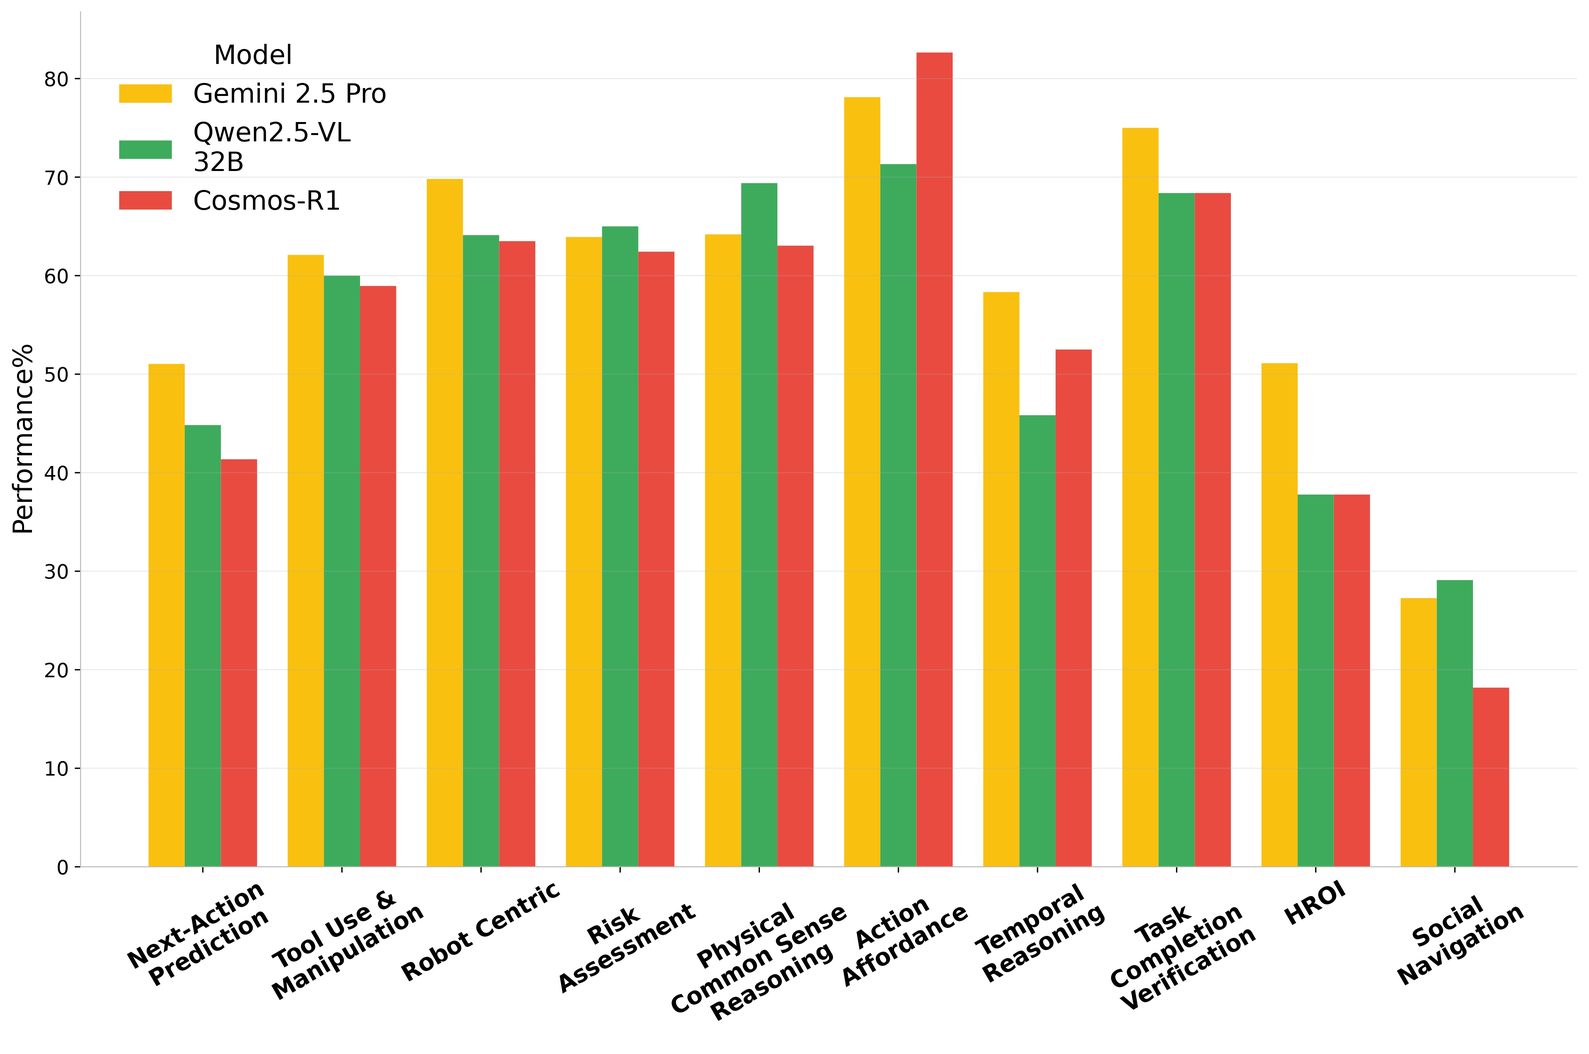
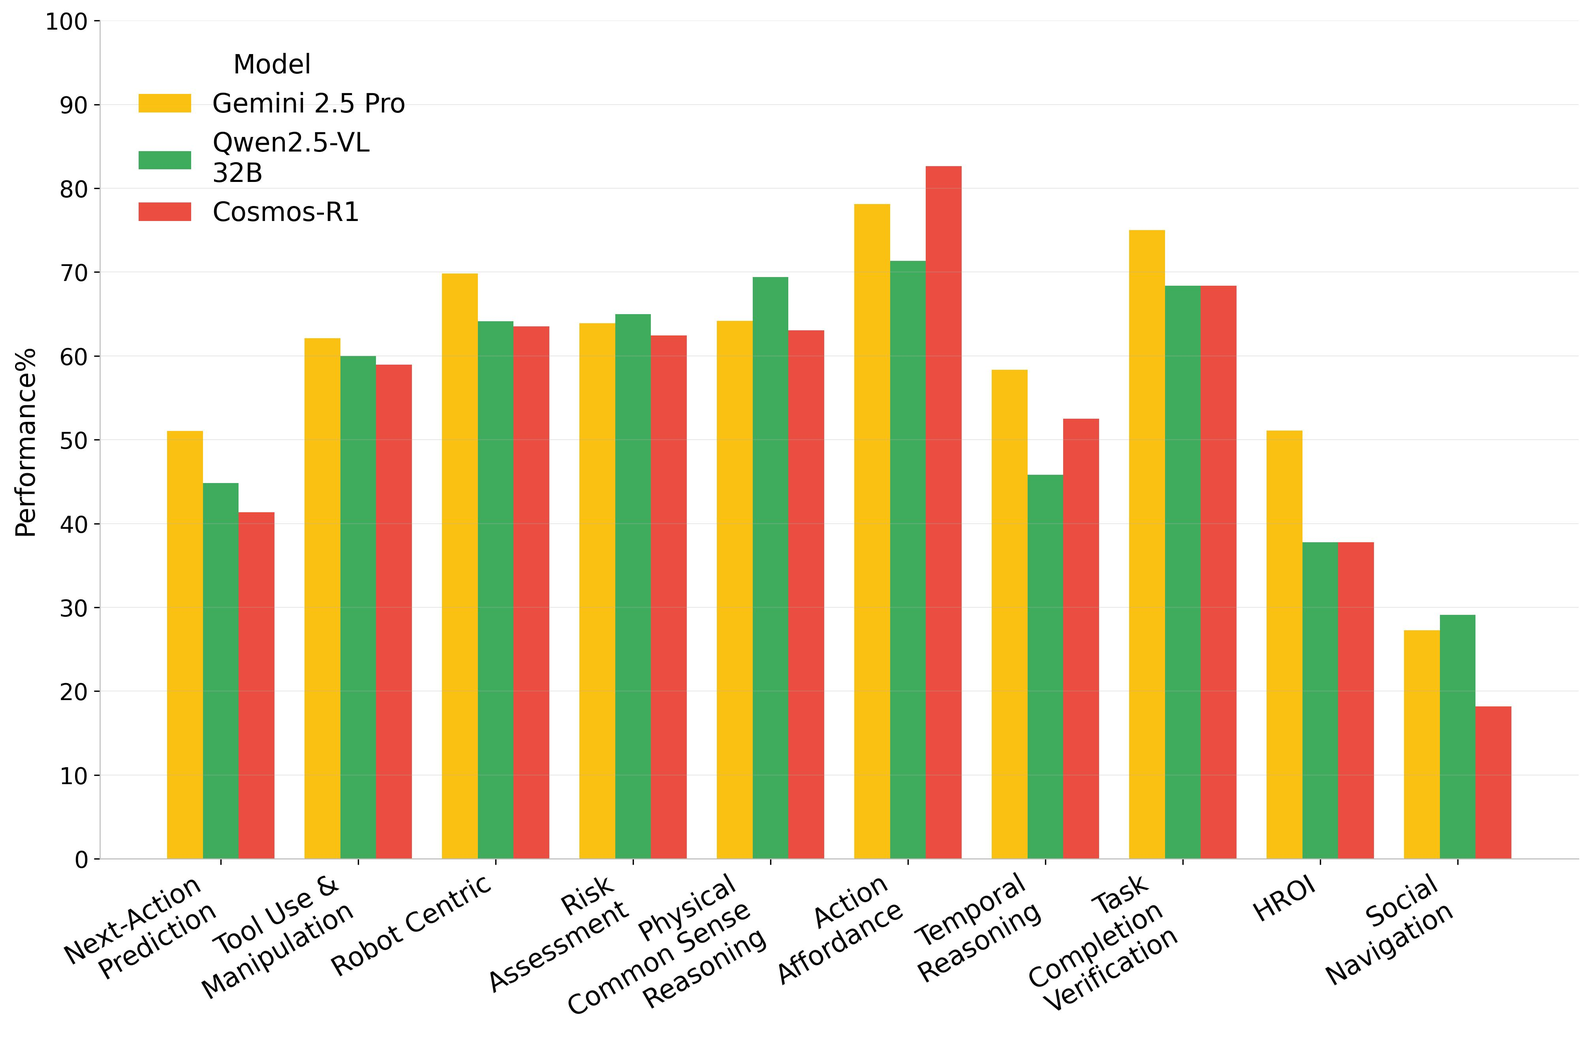
Updates to the webpage

diff --git a/index.html b/index.html
@@ -1,4 +1,4 @@
-<!DOCTYPE html>
+<!DOCTYPE html>
 <html>
 <script src="https://polyfill.io/v3/polyfill.min.js?features=es6"></script>
 <script id="MathJax-script" async src="https://cdn.jsdelivr.net/npm/mathjax@3/es5/tex-mml-chtml.js"></script>
@@ -6,25 +6,25 @@
 <meta property='og:title' content='How Good are Foundation Models in Step-by-Step Embodied Reasoning?'/>
 <meta property='og:image' content=''/>
 <meta property='og:description' content=''/>
-<meta property='og:url' content='https://github.com/mbzuai-oryx/ALM-Bench'/>
+<meta property='og:url' content='https://github.com/mbzuai-oryx/FoMER-Bench'/>
 <meta property='og:image:width' content='1200' />
 <meta property='og:image:height' content='663' />
 <!-- TYPE BELOW IS PROBABLY: 'website' or 'article' or look on https://ogp.me/#types -->
 <meta property="og:type" content='website'/>
 <head>
   <!-- Google tag (gtag.js) -->
-  <script async src="https://www.googletagmanager.com/gtag/js?id=G-9VZKE74FPW"></script>
+  <!-- <script async src="https://www.googletagmanager.com/gtag/js?id=G-9VZKE74FPW"></script>
   <script>
     window.dataLayer = window.dataLayer || [];
     function gtag(){dataLayer.push(arguments);}
     gtag('js', new Date());
 
     gtag('config', 'G-9VZKE74FPW');
-</script>
+</script> -->
   <meta charset="utf-8">
   <meta name="description"
         content="How Good are Foundation Models in Step-by-Step Embodied Reasoning?">
-  <meta name="keywords" content="Multilingual Multimodal Benchmark, 100 languages, Cultural Multilingual Benchmark">
+  <meta name="keywords" content="Foundation Model Embodied Reasoning, FoMER benchmark, embodied reasoning benchmark, embodied AI">
   <meta name="viewport" content="width=device-width, initial-scale=1">
   <title>How Good are Foundation Models in Step-by-Step Embodied Reasoning?</title>
 
@@ -66,28 +66,25 @@
         <div class="column has-text-centered">
           <h1 class="title is-2 publication-title">How Good are Foundation Models in Step-by-Step Embodied Reasoning?</h1>
           <div class="is-size-5 publication-authors">
-            <span class="author-block"><a href="https://dinuransika.github.io/">Dinura Dissanayake</a><sup>1♠</sup>,</span>
-            <span class="author-block"><a href="">Ahmed Heakl</a><sup>1♠</sup>,</span>
-            <span class="author-block"><a href="">Noor Ahsan</a><sup>1♠</sup>,</span>
-            <span class="author-block"><a href="">Jean Lahoud</a><sup>1</sup>,</span>
-            <span class="author-block"><a href="">Ketan More</a><sup>1</sup>,</span>
-            <span class="author-block"><a href="">Ritesh Thawkar </a><sup>1</sup>,</span>
-            <span class="author-block"><a href="">Omkar Thawakar</a><sup>1</sup>,</span>
-
-
-                
-            <!-- <br> -->
-              
+            <span class="author-block"><a href="https://dinuransika.github.io/">Dinura Dissanayake</a><sup>1</sup>,</span>
+            <span class="author-block"><a href="https://scholar.google.com/citations?user=JcWO9OUAAAAJ&hl=en">Ahmed Heakl</a><sup>1</sup>,</span>
+            <span class="author-block"><a href="https://scholar.google.com/citations?user=flvl5YQAAAAJ&hl=en">Omkar Thawakar</a><sup>1</sup>,</span>
+            <span class="author-block"><a href="#">Noor Ahsan</a><sup>1</sup>,</span>
+            <span class="author-block"><a href="https://scholar.google.com/citations?user=9-2AnjQAAAAJ&hl=en">Ritesh Thawkar</a><sup>1</sup>,</span>
+            <span class="author-block"><a href="https://scholar.google.com/citations?user=FCgQeoYAAAAJ&hl=en">Ketan More</a><sup>1</sup>,</span>
+            <span class="author-block"><a href="https://scholar.google.com/citations?user=LsivLPoAAAAJ&hl=en">Jean Lahoud</a><sup>1</sup>,</span>
+            <span class="author-block"><a href="https://scholar.google.com/citations?hl=en&authuser=1&user=_KlvMVoAAAAJ">Rao Anwer</a><sup>1</sup>,</span>
             <span class="author-block"><a href="https://scholar.google.com/citations?hl=en&user=bZ3YBRcAAAAJ">Hisham Cholakkal</a><sup>1</sup>,</span>
             <span class="author-block"><a href="https://scholar.google.com/citations?user=-9ifK0cAAAAJ&hl=en&oi=ao">Ivan Laptev</a><sup>1</sup>,</span>
-            <span class="author-block"><a href="https://salman-h-khan.github.io/">Salman Khan</a><sup>1,2</sup>,</span>
-            <span class="author-block"><a href="https://sites.google.com/view/fahadkhans/home">Fahad Shahbaz Khan</a><sup>1,3</sup></span>
+            <span class="author-block"><a href="https://sites.google.com/view/fahadkhans/home">Fahad Khan</a><sup>1</sup>,</span>
+            <span class="author-block"><a href="https://salman-h-khan.github.io/">Salman Khan</a><sup>1</sup>,</span>
+
 
           </div>
 
           <div class="is-size-5 publication-authors">
-            <span class="author-block"><sup>♠</sup> Core Authors</span>
-            <br>
+            <!-- <span class="author-block"><sup>â™ </sup> Core Authors</span>
+            <br> -->
             <span class="author-block"><sup>1</sup>Mohamed bin Zayed University of AI,</span>
                 <br>
             <span class="author-block"><sup>2</sup>Australian National University,</span>
@@ -108,7 +105,7 @@
               </span>
                                 </span>
                 <span class="link-block">
-                  <a href="https://huggingface.co/datasets/MBZUAI/ALM-Bench" target="_blank"
+                  <a href="https://huggingface.co/datasets/Dinura/FoMER" target="_blank"
                     class="external-link button is-normal is-rounded is-dark">
                     <span class="icon">
                       <i class="fas fa-database"></i>
@@ -117,7 +114,7 @@
                   </a>
                 </span>
               <span class="link-block">
-                <a href="https://github.com/mbzuai-oryx/ALM-Bench"
+                <a href="https://github.com/mbzuai-oryx/FoMER-Bench"
                    class="external-link button is-normal is-rounded is-dark">
                   <span class="icon">
                       <i class="fab fa-github"></i>
@@ -126,7 +123,7 @@
                   </a>
               </span>
 
-              <span class="link-block">
+              <!-- <span class="link-block">
                 <a href="https://drive.google.com/file/d/1B2yynH-o1z1UvMCl32XoY3pVIkAxgN0P/view?usp=sharing"
                    class="external-link button is-normal is-rounded is-dark">
                   <span class="icon">
@@ -134,10 +131,10 @@
                   </span>
                   <span>Poster</span>
                 </a>
-              </span>
+              </span> -->
 
 
-              <span class="link-block">
+              <!-- <span class="link-block">
                 <a href="https://docs.google.com/presentation/d/10lUrfoC-R1lgl0Dx0EYpx1ID3AqLGnRO/edit?usp=sharing&ouid=103839181464334047856&rtpof=true&sd=true"
                    class="external-link button is-normal is-rounded is-dark">
                   <span class="icon">
@@ -145,9 +142,9 @@
                   </span>
                   <span>Presentation</span>
                 </a>
-              </span>
+              </span> -->
 
-              <span class="link-block">
+              <!-- <span class="link-block">
                 <a href="https://www.youtube.com/watch?v=fvcX4yi5AiY&list=PLtIMlmzwbtty7ie1quj1fq2QoTRK9eWHX&ab_channel=AshmalVayani"
                    class="external-link button is-normal is-rounded is-dark">
                   <span class="icon">
@@ -155,7 +152,7 @@
                   </span>
                   <span>Video</span>
                 </a>
-              </span>
+              </span> -->
 
 
               <span class="link-block">
@@ -181,12 +178,16 @@
   <div class="container is-max-desktop">
     <div class="hero-body">
         <p align="justify"> 
-        <b>How can AI-powered agents make safe and intelligent choices in the real world?</b> <br> Our research introduces a large-scale benchmark that tests whether today’s large multimodal models (LMMs) can truly reason about space, safety, and context when acting in complex environments. With over 1,000 carefully designed scenarios and a new evaluation framework, we reveal both the promise and the limitations of current models, pointing the way toward more reliable, reasoning-aware embodied AI.</p>
+        <b>How can AI-powered agents make safe and intelligent choices in the real world?</b> <br> Our research introduces a large-scale benchmark that tests whether todayâ€™s large multimodal models (LMMs) can truly reason about space, safety, and context when acting in complex environments. With over 1,000 carefully designed questions and a new evaluation framework, we reveal both the promise and the limitations of current models, pointing the way toward more reliable, reasoning-aware embodied AI.</p>
     <br>
-    <img src="./static/images/ReasoningTrailExample.jpg" >
-        <div class="content has-text-justified">
-            <p align="justify"> <b> <span>Figure</span></b>: The given sample shows an example where both the models, Gemini and Qwen, have given the correct answer as ”withdraw bolt”. Even though the answers are correct, the reasoning given for the answers is completely different. This emphasizes the need to
-evaluate the reasoning capabilities of the models.</p>
+        <div class="text-align:center;">
+            <img src="./static/images/ReasoningTrailExample.jpg" style="display:block;margin:0 auto;">
+            <p align="justify"> <b> <span>Figure</span></b>: Example illustrating the final answer and step-by-step
+            reasoning from Gemini and Qwen for a given
+            video and text prompt. While both models correctly identify the
+            action as â€œwithdraw bolt,â€ the reasoning they provide differs sig-
+            nificantly. This underscores the importance of evaluating the final
+            answer as well as the underlying reasoning.</p>
         </div>
     </div>
 
@@ -197,7 +198,7 @@ evaluate the reasoning capabilities of the models.</p>
       <h2 class="title is-3">Abstract</h2>
       <div class="content has-text-justified">
         <p>
-          Embodied agents operating in the physical world must make decisions that are not only effective but also safe, spatially coherent, and grounded in context. While recent advances in large multimodal models (LMMs) have shown promising capabilities in visual understanding and language generation, their ability to perform structured reasoning for real-world embodied tasks remains underexplored. In this work, we introduce a benchmark designed to evaluate the reasoning capabilities of LMMs in complex embodied decision-making scenarios. Our benchmark spans a diverse set of tasks that require agents to interpret multimodal observations, reason about physical constraints and safety, and generate valid next actions in natural language. We present (i) a large-scale, curated suite of embodied reasoning tasks, (ii) a novel evaluation framework that disentangles perceptual grounding from action reasoning, and (iii) empirical analysis of several leading LMMs under this setting. Our results highlight both the potential and current limitations of LMMs in embodied reasoning, pointing towards key challenges and opportunities for future research in robot intelligence.        </p>
+         Embodied agents operating in the physical world must make decisions that are not only effective but also safe, spatially coherent, and grounded in context. While recent advances in large multimodal models (LMMs) have shown promising capabilities in visual understanding and language generation, their ability to perform structured reasoning for real-world embodied tasks remains underexplored. In this work, we aim to understand how well foundation models can perform step-by-step reasoning in embodied environments. To this end, we propose the Foundation Model Embodied Reasoning (FoMER) benchmark, designed to evaluate the reasoning capabilities of LMMs in complex embodied decision-making scenarios. Our benchmark spans a diverse set of tasks that require agents to interpret multimodal observations, reason about physical constraints and safety, and generate valid next actions in natural language. We present (i) a large-scale, curated suite of embodied reasoning tasks, (ii) a novel evaluation framework that disentangles perceptual grounding from action reasoning, and (iii) empirical analysis of several leading LMMs under this setting. Our benchmark includes over 1.1k samples with detailed step-by-step reasoning across 10 tasks and 8 embodiments, covering three different robot types. Our results highlight both the potential and current limitations of LMMs in embodied reasoning, pointing towards key challenges and opportunities for future research in robot intelligence.  </p>
       </div>
     </div>
   </div>
@@ -212,7 +213,7 @@ evaluate the reasoning capabilities of the models.</p>
             <!-- </h4> -->
             
             <div class="content has-text-justified">
-                <p align="center"> <b> <span>Table</span></b>  A comparison of various Embodied and Physical AI benchmarks.</p>
+                <p align="center"> <b> <span>Table</span></b>  A comparison of various Embodied and Physical AI benchmarks. We summarize key features across benchmarks, including input modalities, question formats, presence of step-by-step reasoning trails, number of annotated questions, annotation methods, diversity of tasks and embodiments, and the types of robots involved. Our benchmark (last row) is distinguished by explicitly incorporating reasoning traces, supporting a variety of question types, and covering a broader set of tasks and robotic platforms compared to prior work.</p>
             </div>
         </div>
     </div>
@@ -281,7 +282,12 @@ evaluate the reasoning capabilities of the models.</p>
         <div class="content has-text-centered">
             <img src="./static/images/Fig3_Data_Distribution.jpg"  style="max-width:50%">
                                   <p class="content has-text-justified">
-            <b>Figure:</b> The figure illustrates both the dataset distribution and the question type composition of our benchmark. For clarity, we further decompose the Cosmos-R1 benchmark into its constituent sub-datasets – Agibot, BridgeDataV2, HoloAssist, RoboVQA, and RoboFail to explicitly show the distribution od question types across these subsets.</p>
+            <b>Figure:</b> Dataset distribution and question type composition of our
+benchmark. Question types include open-ended questions (Open),
+multiple choice questions (MCQ), and True/False questions (TF).
+For clarity, we decompose the Cosmos-R1 benchmark into its
+constituent sub-datasets Agibot, BridgeDataV2, HoloAssist, RoboVQA, and RoboFail to explicitly show the
+distribution of question types across these subsets.</p>
         </div>
         <div class="content has-text-justified">
                       <p>
@@ -318,27 +324,34 @@ evaluate the reasoning capabilities of the models.</p>
         <h2 class="title is-3 has-text-centered"> </h2>
           <br>
         <div class="content has-text-centered">
-            <img src="./static/images/Fig4_grouped_panels.jpg"  style="max-width:100%">
+            <img src="./static/images/Fig4_grouped_panels.png"  style="max-width:100%">
                                   <p class="content has-text-justified">
 
             <div class="content has-text-justified">
-            <p align="center"> <b> <span>Figure</span></b>: A comprehensive comparison of dataset-wise performances of the models. In our benchmark we have data from different sources, such as Cosmos-R1 benchmark, Roboset, NYU VINN, Recon, HRIBench and Pbench. For this graph we have decomposed Cosmos-R1 into its subsets, Agibot, BridgeDataV2, HoloAssist, RoboVQA, and Robofail.</p>
+            <p align="center"> <b> <span>Figure</span></b>: Comparison of reasoning accuracy (RA) and final accuracy (FA) across datasets of our benchmark, including Cosmos-R1
+(decomposed into Agibot, BridgeDataV2, HoloAssist, RoboVQA, and RoboFail), RoboSet, NYU VINN, Recon, HRIBench, and Pbench.</p>
             </div>
 <br><br><br><br><br><br>
         <div class="content has-text-justified">
             <h3 class="title is-4 has-text-justified"><b>Data Statistics</b></h3>
     
-            <p align="justify"> Our benchmark includes three different question types: multiple-choice (MCQ), true/false (TF), and open-ended. For MCQ and TF questions, models were provided with the visual context, question, and options, and were instructed to give an answer selected from the options along with a detailed step-by-step explanation that logically leads to the final answer. Open-ended questions were prompted with the visual context and question, and models were asked to provide a detailed explanation with the final answer. Since different models vary in their ability to handle visual frames, and most videos in our benchmark are short (1–10 seconds), we prompted all models with 8 uniformly sampled frames from each video. The only exception is the Robofail subset from Cosmos-R1, which includes longer videos (3–5 minutes); for these, we sampled 32 uniformly spaced frames. For datasets like NYU VINN, Recon, and Roboset that consist of static image frames, we used 8 sampled images. In the case of Pbench and HRIBench, which have only one image, models were prompted with that single image.</p>
+            <p align="justify"> Our benchmark includes three different question types: multiple-choice (MCQ), true/false (TF), and open-ended. For MCQ and TF questions, models were provided with the visual context, question, and options, and were instructed to give an answer selected from the options along with a detailed step-by-step explanation that logically leads to the final answer. Open-ended questions were prompted with the visual context and question, and models were asked to provide a detailed explanation with the final answer. Since different models vary in their ability to handle visual frames, and most videos in our benchmark are short (1â€“10 seconds), we prompted all models with 8 uniformly sampled frames from each video. The only exception is the Robofail subset from Cosmos-R1, which includes longer videos (3â€“5 minutes); for these, we sampled 32 uniformly spaced frames. For datasets like NYU VINN, Recon, and Roboset that consist of static image frames, we used 8 sampled images. In the case of Pbench and HRIBench, which have only one image, models were prompted with that single image.</p>
             <div class="content has-text-centered">
             <img src="./static/images/Fig5_QTypeWise.jpg" style="max-width:90%"> </div>
-            <p align="center"> <b> <span>Figure</span></b>: Comparison of the final accuracies achieved by different models in each question type of the benchmark. Considering the results, models perform better on TF questions and open-ended questions compared to MCQ questions</p>
+            <p align="center"> <b> <span>Figure</span></b>: Comparison of the final accuracies achieved by different
+models in each question type of the benchmark. Considering the
+results, models perform better on TF questions and open-ended
+questions compared to MCQ questions.</p>
         </div>
 
 <br><br><br>
         <div class="content has-text-justified">
             <div class="content has-text-centered">
-            <img src="./static/images/fig7_Embodied Results.jpg" style="max-width:100%"> </div>
-            <p align="center"> <b> <span>Figure</span></b>:  The above bar chart compares the performance of different open source as well as closed source SoTA models, highlighting the reasoning accuracy as well as the final accuracy. Here, we evaluate the reasoning steps thoroughly using our proposed evaluation criteria.</p>
+            <img src="./static/images/fig7_Embodied Results.png" style="max-width:100%"> </div>
+            <p align="center"> <b> <span>Figure</span></b>:  Performance of different open source as well as closed
+source SoTA models, highlighting the reasoning accuracy as well as
+the final accuracy. Here, we evaluate the reasoning steps thoroughly
+using our proposed evaluation criteria.</p>
         </div>
         </div>
           
@@ -359,10 +372,11 @@ evaluate the reasoning capabilities of the models.</p>
 
         <div class="content has-text-centered">
                       <p style="text-align: justify;">
-<p style="text-align: justify;"> Here we show a breakdown of the model performance on the proposed evaluation criteria, where we evaluate the reasoning
-traces of the models in physical AI-specific criteria like spatial reasoning, physical causality, commonsense, and safety </p>
+<p style="text-align: justify;">  breakdown of the model performance on the proposed
+evaluation criteria, where we evaluate the reasoning traces of the
+models in physical AI-specific criteria like spatial reasoning, physical causality, commonsense, and safety. </p>
 
-<img src="./static/images/Fig6_ReasoningRadar.jpg"  style="max-width:100%">
+<img src="./static/images/Fig6_ReasoningRadar.png"  style="max-width:100%">
 
     </div>
     <br/>
@@ -396,7 +410,7 @@ Qwen3-32B, and both models give similar evaluations in final accuracy as well as
         <h3 class="title is-4 has-text-justified">Conclusion</h3>
         <div class="content has-text-justified">
           <p>
-           In this paper, we introduced a novel embodied VQA benchmark designed to evaluate the embodied reasoning capabilities of LLMs. The benchmark consists of over 1,000 samples spanning 10 diverse task categories. In addition, we proposed a new evaluation framework that jointly assesses both action validity and reasoning correctness. We analyzed the performance of nine state-of-the-art models, including both open-source and proprietary systems. Our results reveal significant limitations of current models on embodied reasoning tasks and underscore the importance of analyzing and evaluating reasoning trails to better understand model capabilities.</p>
+           In this paper, we introduced the Foundation Model Embodied Reasoning (FoMER) benchmark designed to evaluate the embodied reasoning capabilities of LLMs. The benchmark consists of over 1,000 samples with detailed reasoning steps spanning 10 diverse task categories. In addition, we proposed a new evaluation framework that jointly assesses both action validity and reasoning correctness. We analyzed the performance of nine state-of-the-art models, including both open-source and proprietary systems. Our results reveal significant limitations of current models on embodied reasoning tasks and underscore the importance of analyzing and evaluating reasoning trails to better understand model capabilities. As a result, FoMER could serve as a testbed to identify potentially unsafe or unreliable reasoning in LLMs and agentic models before real-world deployment.
 
             <br>
             <p>For additional details about evaluation and experimental results, please refer to our main paper. Thank you! </p>
@@ -409,15 +423,7 @@ Qwen3-32B, and both models give similar evaluations in final accuracy as well as
 <section class="section" id="BibTeX">
   <div class="container is-max-desktop content">
     <h2 class="title"><a id="bibtex">BibTeX</a></h2>
-    <pre><code>@misc{vayani2024alm,
-      title={How Good are Foundation Models in Step-by-Step Embodied Reasoning?}, 
-      author={Dinura Dissanayake and Noor Ahsan and Ahmed Heakl and Jean Lahoud and Ketan More and Ritesh Thawkar and Omkar Thawakar and Ivan Laptev and Mubarak Shah and Salman Khan and Fahad Khan},
-      year={2025},
-      eprint={2411.16508},
-      archivePrefix={arXiv},
-      primaryClass={cs.CV},
-      url={https://arxiv.org/abs/2411.16508}, 
-}
+    <pre><code>@misc{}
 </code></pre>
   </div>
 </section>
